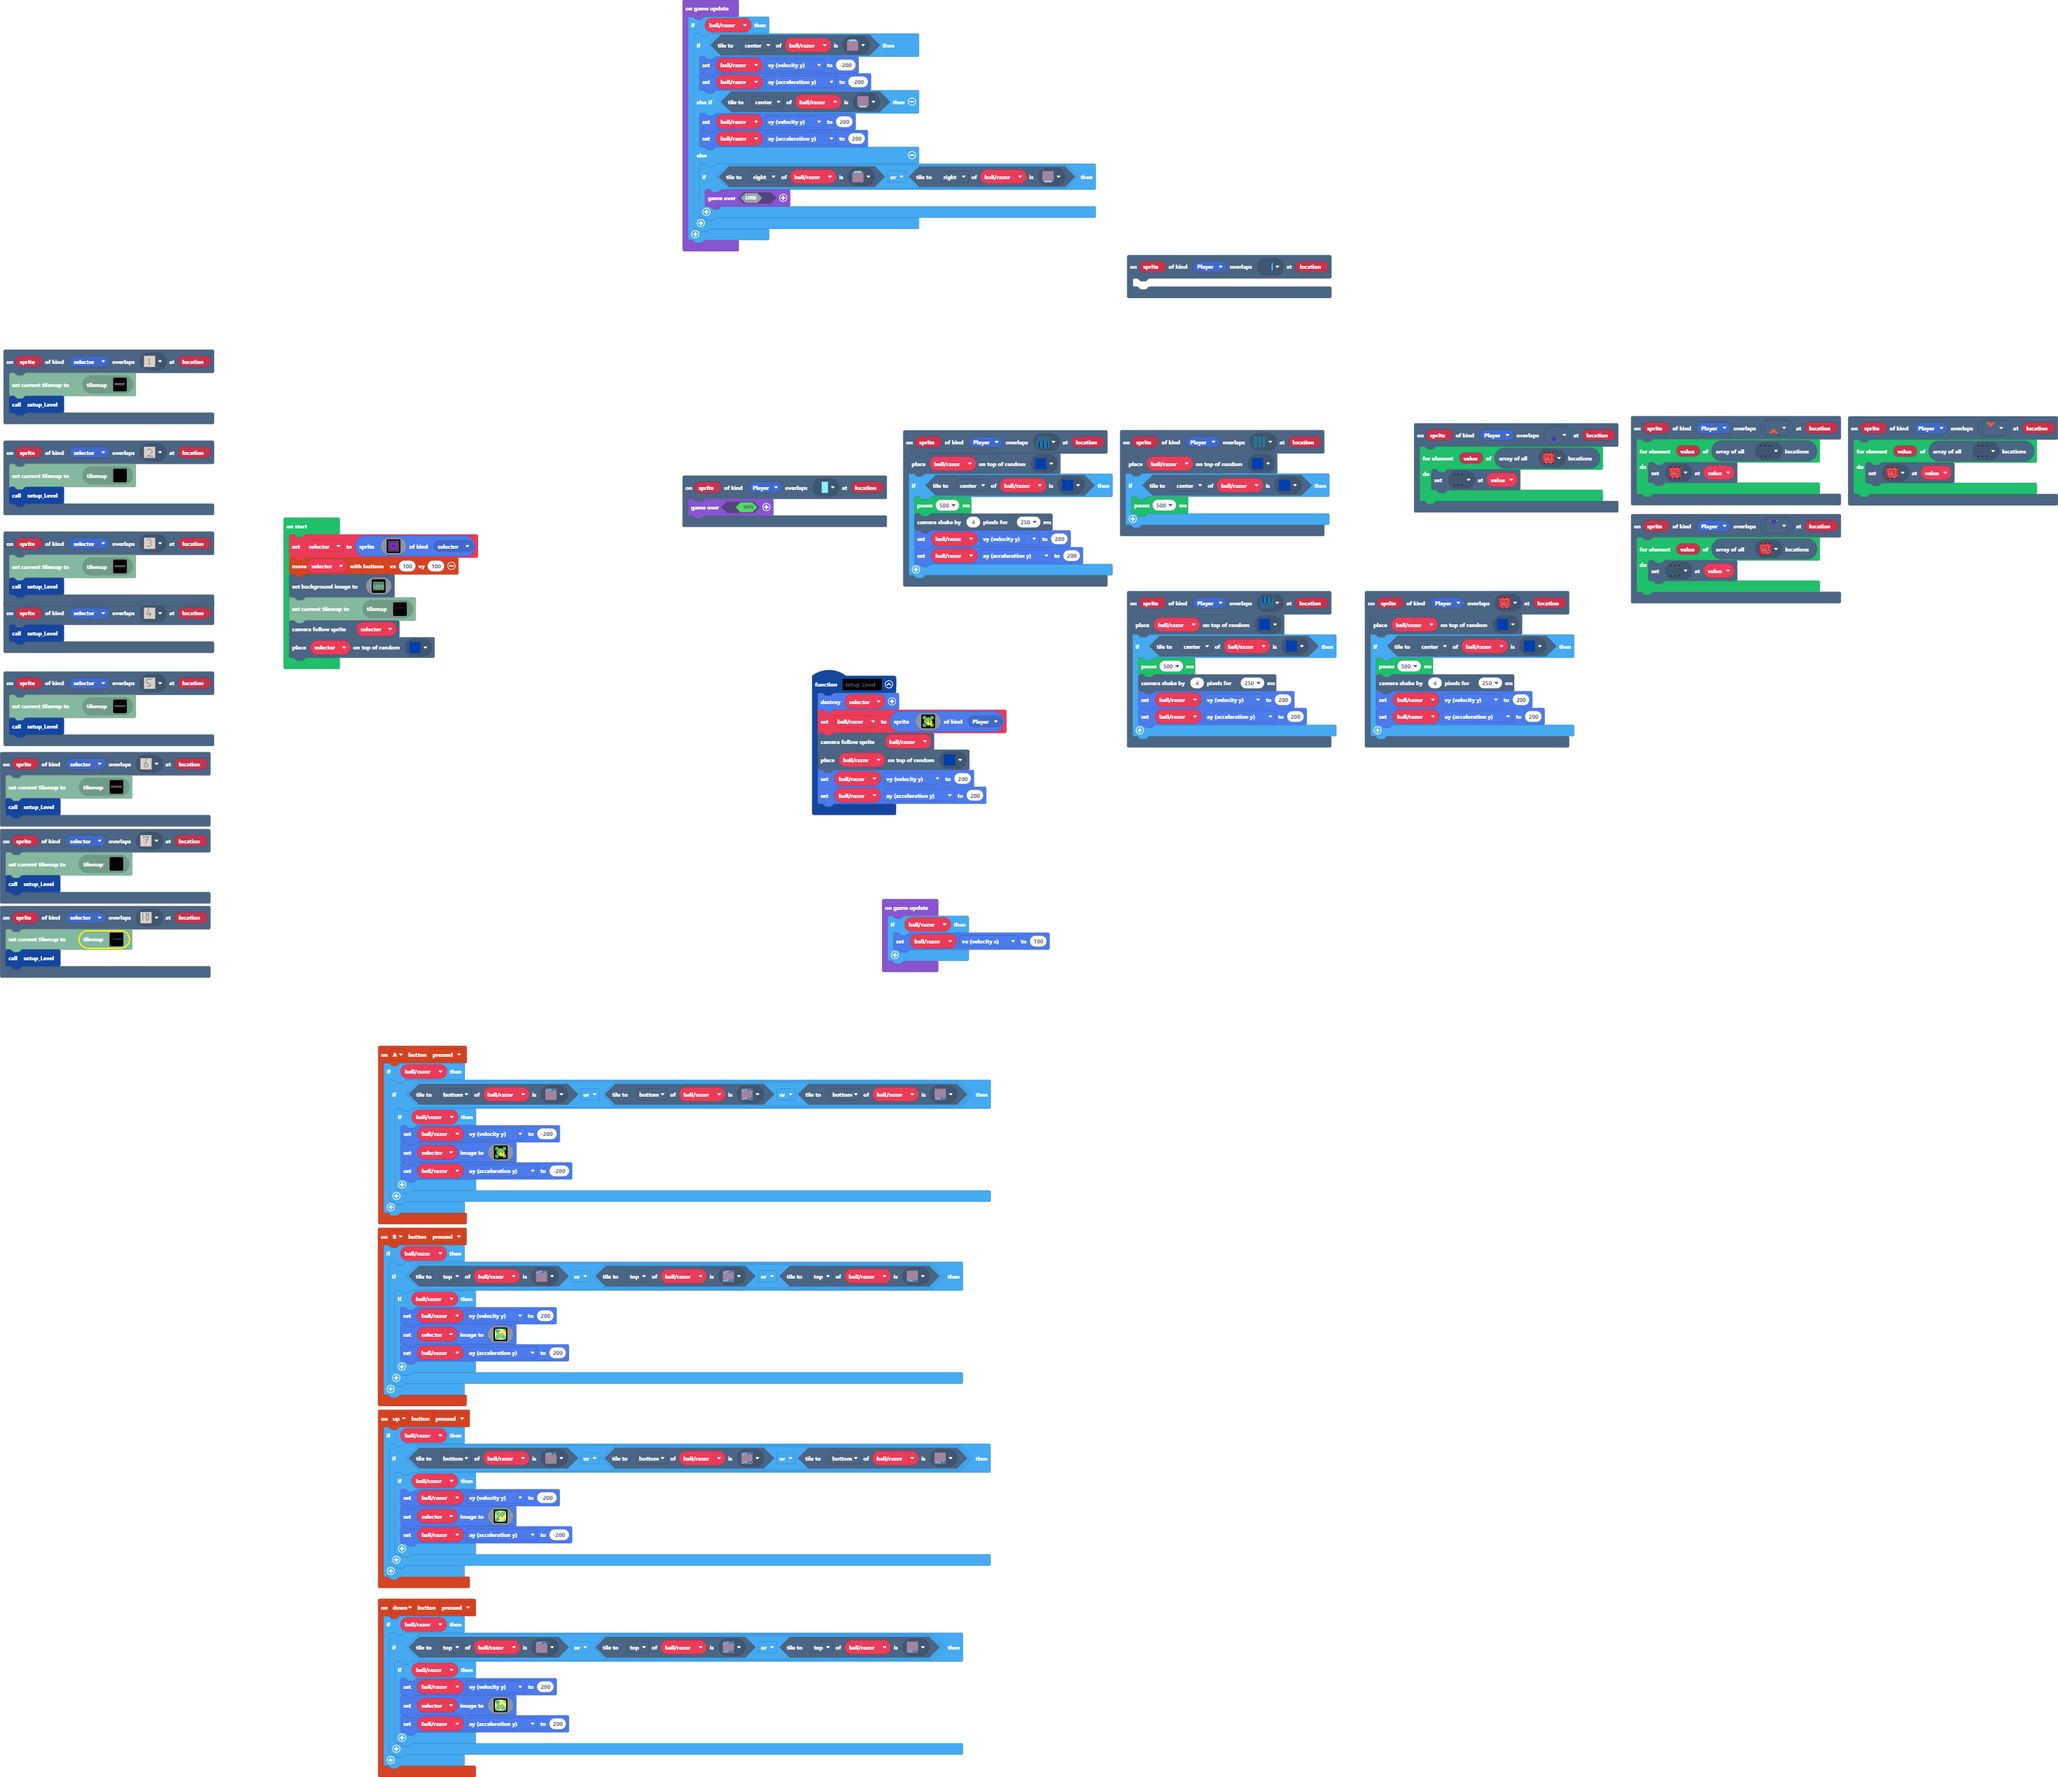
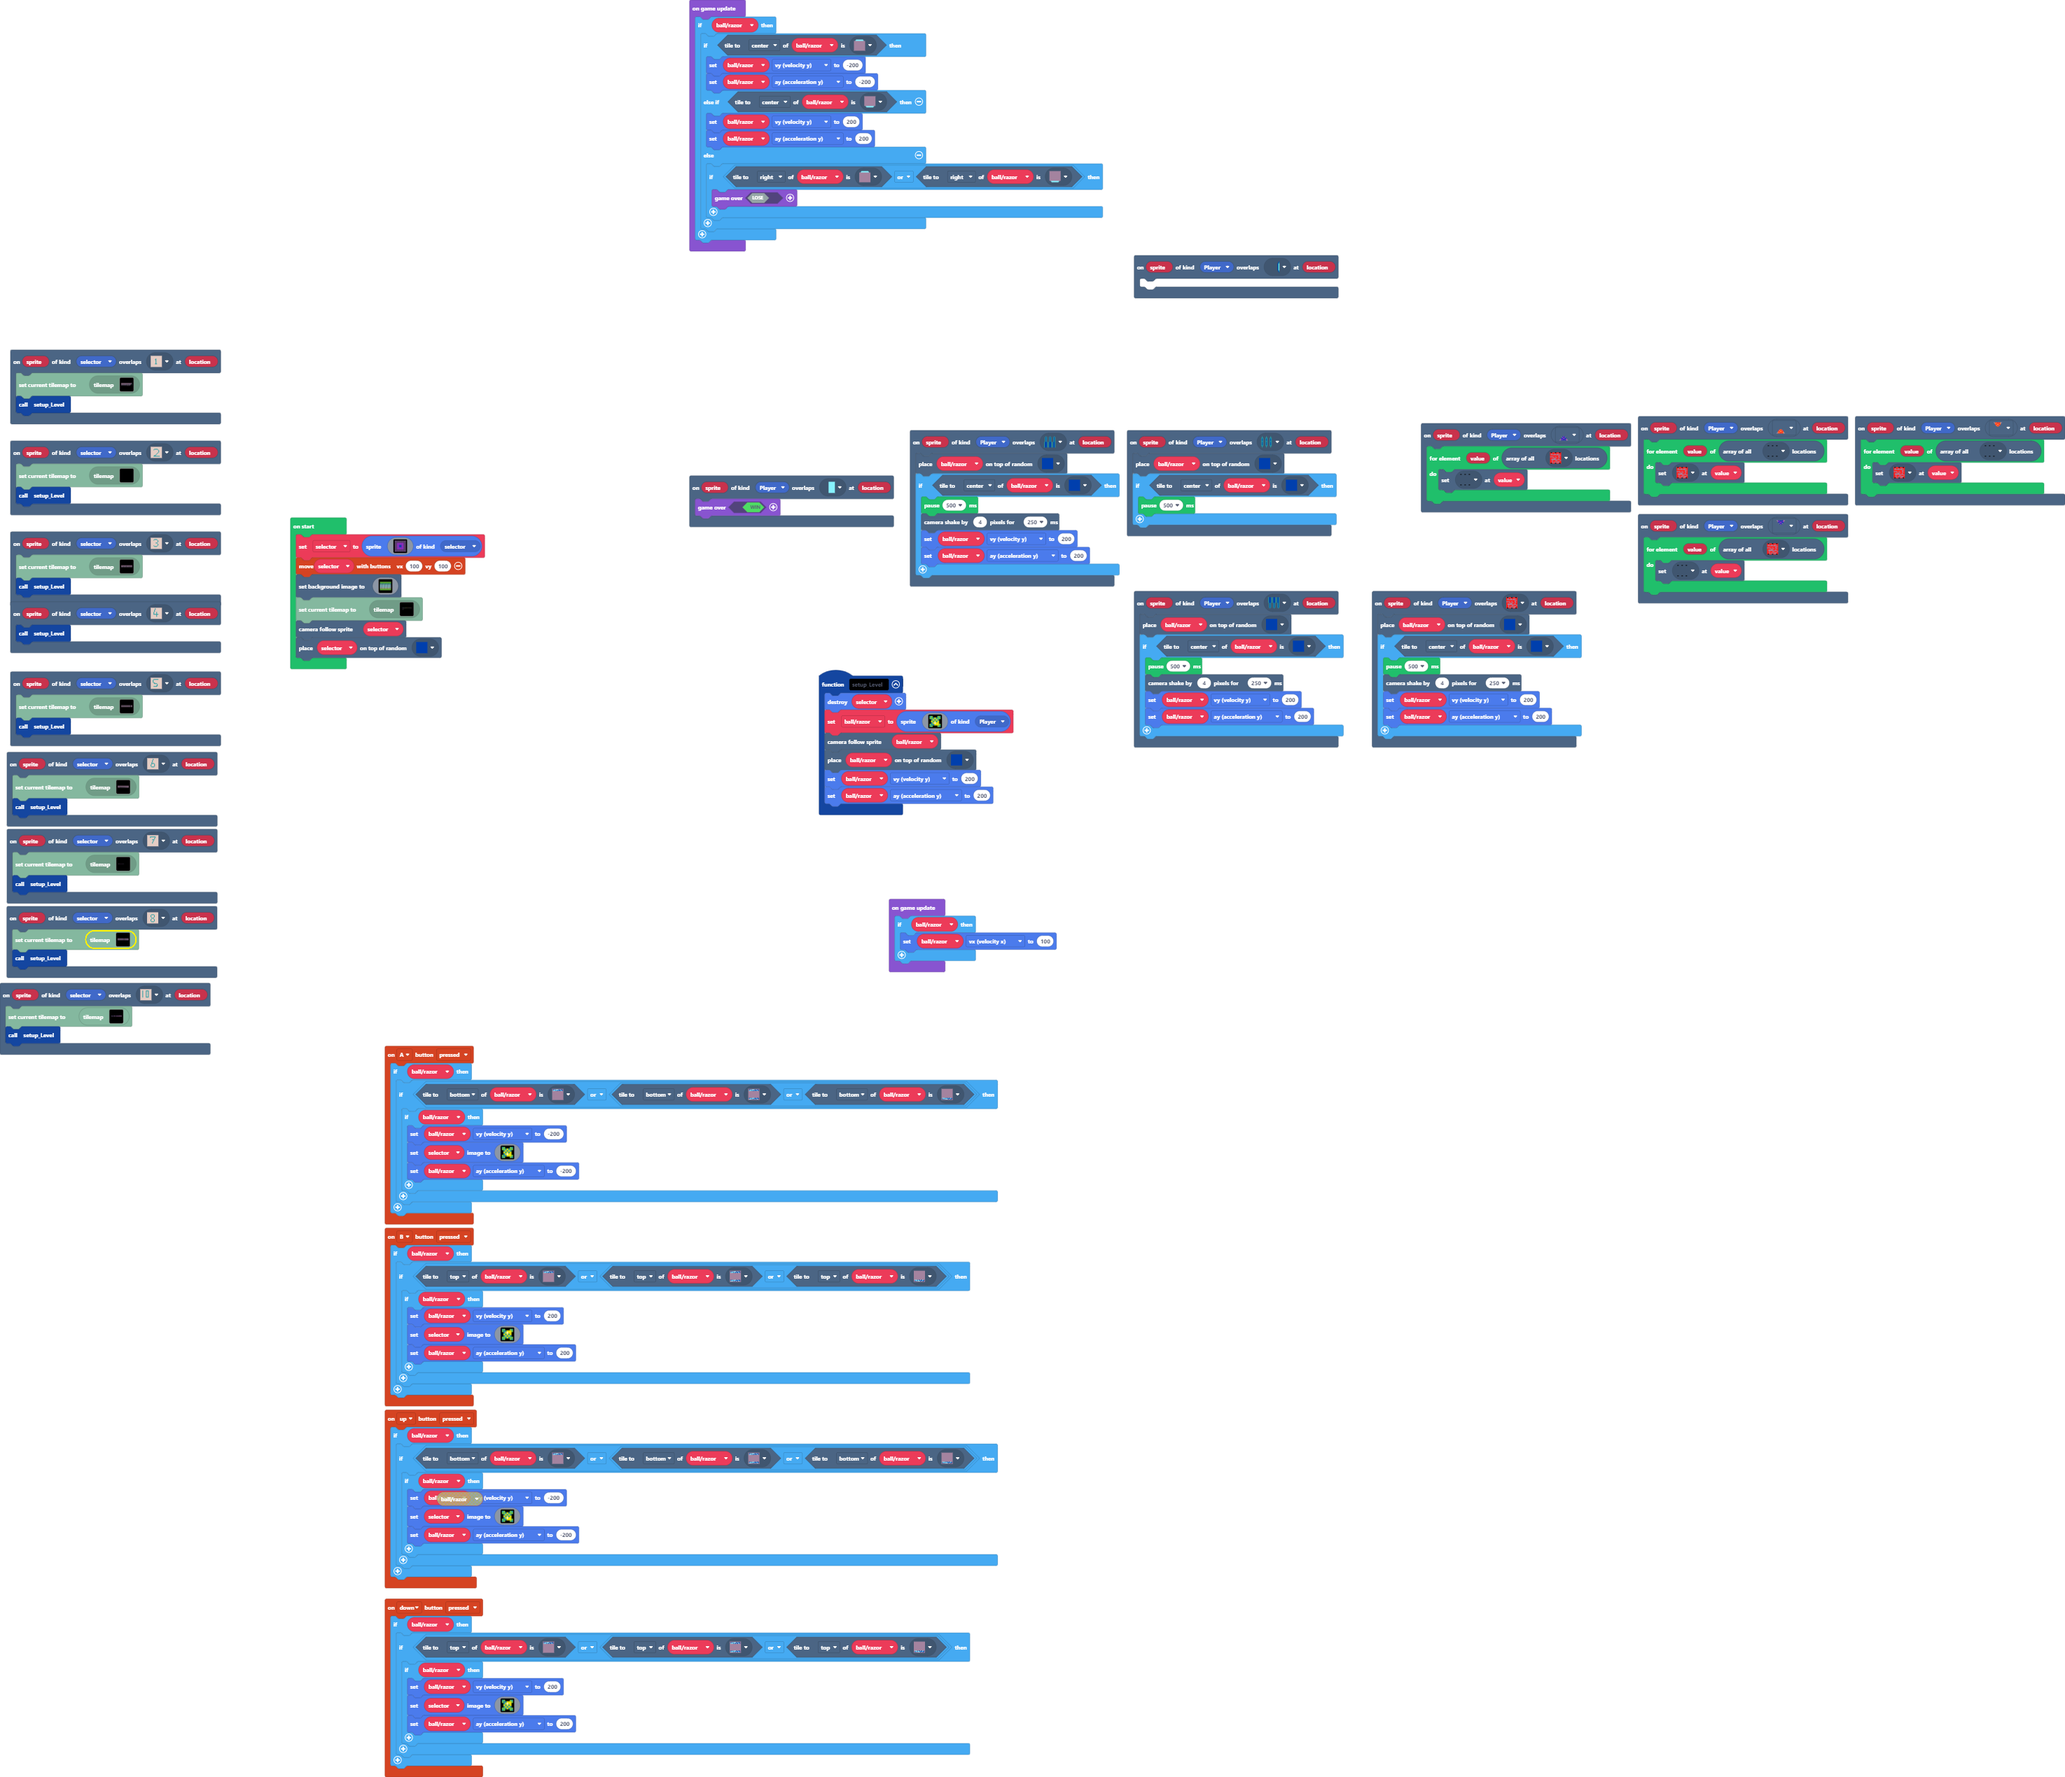
Working state

diff --git a/tilemap.g.ts b/tilemap.g.ts
@@ -173,25 +173,6 @@ namespace myTiles {
 . . . . . . . . . . . . . . . . 
 . . . . . . . . . . . . . . . . 
 `, [myTiles.transparency16], TileScale.Sixteen);
-            case "level9":
-            case "level9":return tiles.createTilemap(hex`1000100000000000000000000000000000000000000000000000000000000000000000000000000000000000000000000000000000000000000000000000000000000000000000000000000000000000000000000000000000000000000000000000000000000000000000000000000000000000000000000000000000000000000000000000000000000000000000000000000000000000000000000000000000000000000000000000000000000000000000000000000000000000000000000000000000000000000000000000000000000000000000000000000000000000000000000000000000000000000000000000000000000000000000000000000000000000`, img`
-. . . . . . . . . . . . . . . . 
-. . . . . . . . . . . . . . . . 
-. . . . . . . . . . . . . . . . 
-. . . . . . . . . . . . . . . . 
-. . . . . . . . . . . . . . . . 
-. . . . . . . . . . . . . . . . 
-. . . . . . . . . . . . . . . . 
-. . . . . . . . . . . . . . . . 
-. . . . . . . . . . . . . . . . 
-. . . . . . . . . . . . . . . . 
-. . . . . . . . . . . . . . . . 
-. . . . . . . . . . . . . . . . 
-. . . . . . . . . . . . . . . . 
-. . . . . . . . . . . . . . . . 
-. . . . . . . . . . . . . . . . 
-. . . . . . . . . . . . . . . . 
-`, [myTiles.transparency16], TileScale.Sixteen);
             case "level11":
             case "level11":return tiles.createTilemap(hex`1000100000000000000000000000000000000000000000000000000000000000000000000000000000000000000000000000000000000000000000000000000000000000000000000000000000000000000000000000000000000000000000000000000000000000000000000000000000000000000000000000000000000000000000000000000000000000000000000000000000000000000000000000000000000000000000000000000000000000000000000000000000000000000000000000000000000000000000000000000000000000000000000000000000000000000000000000000000000000000000000000000000000000000000000000000000000000`, img`
 . . . . . . . . . . . . . . . . 
@@ -477,6 +458,86 @@ namespace myTiles {
 .........................................................................................2....2.................2.......................................................................................
 222222222222222222222222222222222222222222222222222222222.2222222222222222222222222222222222222222222222222222222.......................................................................................
 `, [myTiles.transparency16,myTiles.tile10,myTiles.tile11,myTiles.tile12,myTiles.tile13,myTiles.tile14,myTiles.tile15,myTiles.tile40,myTiles.tile39,myTiles.tile41,myTiles.tile42,myTiles.tile44,myTiles.tile18,myTiles.tile43,myTiles.tile38,myTiles.tile32], TileScale.Sixteen);
+            case "level9":
+            case "level9":return tiles.createTilemap(hex`320010000000000000000000000000000000000000000000000000000000000000000000000000000000000000000000000000000000000000000000000000000000000000000000000000000000000000000000000000000000000000000000000000000000000000000000000000000000000000000000000000000000000000000000000000000000000000000000000000000000000000000000000000000000000000000000000000000000000000000000000000000000000000000000000000000000000000000000000000000000000000000000000000000000000000000000000000000000000000000000000000000000000000000000000000000000000000000000000000000000000000000000000000000000000000000000000000000000000000000000000000000000000000000000000000000000000000000000000000000000000000000000000000000000000000000000000000000000000000000000000000000000000000000000000000000000000000000000000000000000000000000000000000000000000000000000000000000000000000000000000000000000000000000000000000000000000000000000000000000000000000000000000000000000000000000000000000000000000000000000000000000000000000000000000000000000000000000000000000000000000000000000000000000000000000000000000000000000000000000000000000000000000000000000000000000000000000000000000000000000000000000000000000000000000000000000000000000000000000000000000000000000000000000000000000000000000000000000000000000000000000000000000000000000000000000000000000000000000000000000000000000000000000000000000000000000000000000000000000000000000000000000000000000000000000000000000000000000000000000000000000000000000000000000000000000000000000000000000000000000000000000000000000000000000000000000000000000000000000000000000000000000000000000000000000000000000000000000`, img`
+..................................................
+..................................................
+..................................................
+..................................................
+..................................................
+..................................................
+..................................................
+..................................................
+..................................................
+..................................................
+..................................................
+..................................................
+..................................................
+..................................................
+..................................................
+..................................................
+`, [myTiles.transparency16], TileScale.Sixteen);
+            case "level21":
+            case "level21":return tiles.createTilemap(hex`1000100000000000000000000000000000000000000000000000000000000000000000000000000000000000000000000000000000000000000000000000000000000000000000000000000000000000000000000000000000000000000000000000000000000000000000000000000000000000000000000000000000000000000000000000000000000000000000000000000000000000000000000000000000000000000000000000000000000000000000000000000000000000000000000000000000000000000000000000000000000000000000000000000000000000000000000000000000000000000000000000000000000000000000000000000000000000`, img`
+. . . . . . . . . . . . . . . . 
+. . . . . . . . . . . . . . . . 
+. . . . . . . . . . . . . . . . 
+. . . . . . . . . . . . . . . . 
+. . . . . . . . . . . . . . . . 
+. . . . . . . . . . . . . . . . 
+. . . . . . . . . . . . . . . . 
+. . . . . . . . . . . . . . . . 
+. . . . . . . . . . . . . . . . 
+. . . . . . . . . . . . . . . . 
+. . . . . . . . . . . . . . . . 
+. . . . . . . . . . . . . . . . 
+. . . . . . . . . . . . . . . . 
+. . . . . . . . . . . . . . . . 
+. . . . . . . . . . . . . . . . 
+. . . . . . . . . . . . . . . . 
+`, [myTiles.transparency16], TileScale.Sixteen);
+            case "level23":
+            case "level23":return tiles.createTilemap(hex`1000100000000000000000000000000000000000000000000000000000000000000000000000000000000000000000000000000000000000000000000000000000000000000000000000000000000000000000000000000000000000000000000000000000000000000000000000000000000000000000000000000000000000000000000000000000000000000000000000000000000000000000000000000000000000000000000000000000000000000000000000000000000000000000000000000000000000000000000000000000000000000000000000000000000000000000000000000000000000000000000000000000000000000000000000000000000000`, img`
+. . . . . . . . . . . . . . . . 
+. . . . . . . . . . . . . . . . 
+. . . . . . . . . . . . . . . . 
+. . . . . . . . . . . . . . . . 
+. . . . . . . . . . . . . . . . 
+. . . . . . . . . . . . . . . . 
+. . . . . . . . . . . . . . . . 
+. . . . . . . . . . . . . . . . 
+. . . . . . . . . . . . . . . . 
+. . . . . . . . . . . . . . . . 
+. . . . . . . . . . . . . . . . 
+. . . . . . . . . . . . . . . . 
+. . . . . . . . . . . . . . . . 
+. . . . . . . . . . . . . . . . 
+. . . . . . . . . . . . . . . . 
+. . . . . . . . . . . . . . . . 
+`, [myTiles.transparency16], TileScale.Sixteen);
+            case "level22":
[1 lines of base64/hex data omitted]
+222222222222222222222222222222222222222222222222222222222222222222222222222....22222222222222222222222222222222222222222222222222222222
+222222222222222222222222222222222222222222222222222222222222222222222222222....22222222222222222222222222222222222222222222222222222222
+222222222222222222222222222222222222222222222222222222222222222222222222222....22222222222222222222222222222222222222222222222222222222
+222222222222222222222222222222222222222222222222222222222222222222222222222....22222222222222222222222222222222222222222222222222222222
+222222222222222222222222222222222222222222222222222222222222222222222222222....22222222222222222222222222222222222222222222222222222222
+222222222222222222222222222222222222222222222222222222222222222222222222222....22222222222222222222222222222222222222222222222222222222
+222222222222222222222222222222222222222222222222222222222222222222222222222....22222222222222222222222222222222222222222222222222222222
+222222222222222222222222222222222222222222222222222222222222222222222222222....22222222222222222222222222222222222222222222222222222222
+222222222222222222222222222222222222222222222222222222222222222222222222222....222222222222.2222222222222222222222222222222222222222222
+2222222222222222222222222.222222.222222222222222222222222222222222222222222....222222222222.2222222222222222222222222222222222222222222
+2222222222222222222222222.222222.222222222222222222222222....222222222222222222222222222222222222222222222....2222222222222222222222222
+2222222222222222222222222222222222222222222222222222222222222222.........2........2.2.........................2222222222222222222222222
+.........................................2.....2.......................2..................................2...2222222222222222222222222
+.........................................2.2...2..............22222222.2........2...2.........................2222222222222222222222222
+...........................................2...........................222222222222222222222.2222222222222....2222222222222222222222222
+222222222222222222222222222222222222222222.222222222222222222222.2222222222....22222222222222222222222222222222222222222222222222222222
+222222222222222222222222222222222222222222222222222222222222222222222222222....22222222222222222222222222222222222222222222222222222222
+222222222222222222222222222222222222222222222222222222222222222222222222222....22222222222222222222222222222222222222222222222222222222
+222222222222222222222222222222222222222222222222222222222222222222222222222....22222222222222222222222222222222222222222222222222222222
+222222222222222222222222222222222222222222222222222222222222222222222222222....22222222222222222222222222222222222222222222222222222222
+`, [myTiles.transparency16,myTiles.tile10,myTiles.tile11,myTiles.tile12,myTiles.tile15,myTiles.tile18,myTiles.tile21,myTiles.tile14,myTiles.tile13,myTiles.tile38,myTiles.tile16,myTiles.tile32,myTiles.tile37,myTiles.tile39,myTiles.tile41,myTiles.tile40,myTiles.tile43], TileScale.Sixteen);
         }
         return null;
     })

diff --git a/main.ts b/main.ts
@@ -92,6 +92,10 @@ scene.onOverlapTile(SpriteKind.Player, assets.tile`myTile42`, function (sprite, 
         tiles.setTileAt(value, assets.tile`myTile39`)
     }
 })
+scene.onOverlapTile(SpriteKind.selector, assets.tile`myTile25`, function (sprite, location) {
+    tiles.loadMap(tiles.createMap(tilemap`level22`))
+    setup_Level()
+})
 scene.onOverlapTile(SpriteKind.selector, assets.tile`myTile21`, function (sprite, location) {
     setup_Level()
 })
